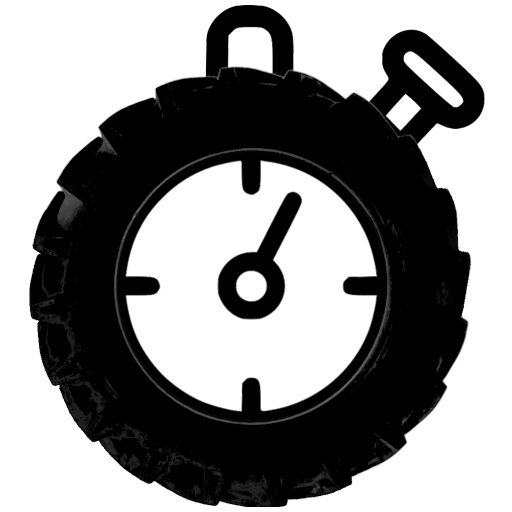
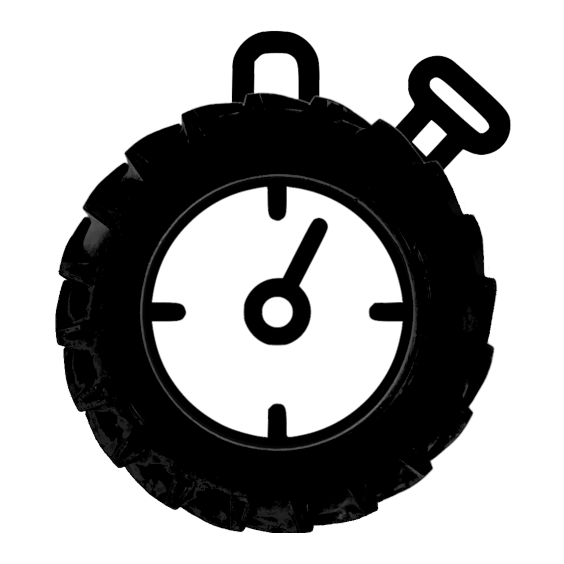
Made all images 10% larger to account for masking when installing PWA

Changed region(s): [[0.0312, 0.0, 0.9688, 1.0], [0.2188, 0.2812, 0.7812, 0.8438], [0.4062, 0.4375, 0.5625, 0.625]]

diff --git a/vite.config.js b/vite.config.js
@@ -27,53 +27,53 @@ const config = {
         icons: [
           {
             src: 'timer.png',
-            sizes: '1000x1000',
+            sizes: '1100x1100',
             type: 'image/png'
           },
           {
             src: 'icon-512.png',
-            sizes: '512x512',
+            sizes: '564x564',
             type: 'image/png',
             purpose: 'any maskable'
           },
           {
             src: 'apple-touch-icon.png',
-            sizes: '180x180',
+            sizes: '198x198',
             type: 'image/png'
           },
           {
             src: 'timer-512.png',
-            sizes: '512x512',
+            sizes: '564x564',
             type: 'image/png'
           },
           {
             src: 'timer-196.png',
-            sizes: '196x196',
+            sizes: '216x216',
             type: 'image/png'
           },
           {
             src: 'timer-192.png',
-            sizes: '192x192',
+            sizes: '212x212',
             type: 'image/png'
           },
           {
             src: 'timer-190.png',
-            sizes: '190x190',
+            sizes: '209x209',
             type: 'image/png'
           },
           {
             src: 'timer-180.png',
-            sizes: '180x180',
+            sizes: '198x198',
             type: 'image/png'
           },
           {
             src: 'timer-64.png',
-            sizes: '64x64',
+            sizes: '71x71',
             type: 'image/png'
           },
           {
             src: 'timer-32.png',
-            sizes: '32x32',
+            sizes: '36x36',
             type: 'image/png'
           },
           {
